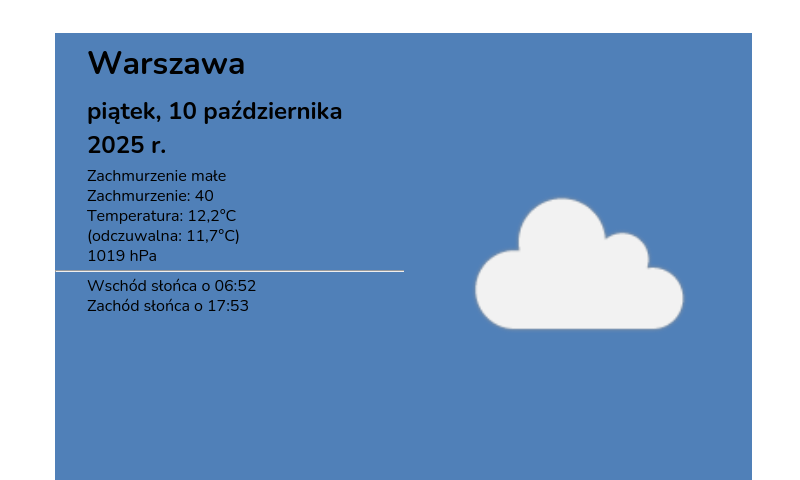
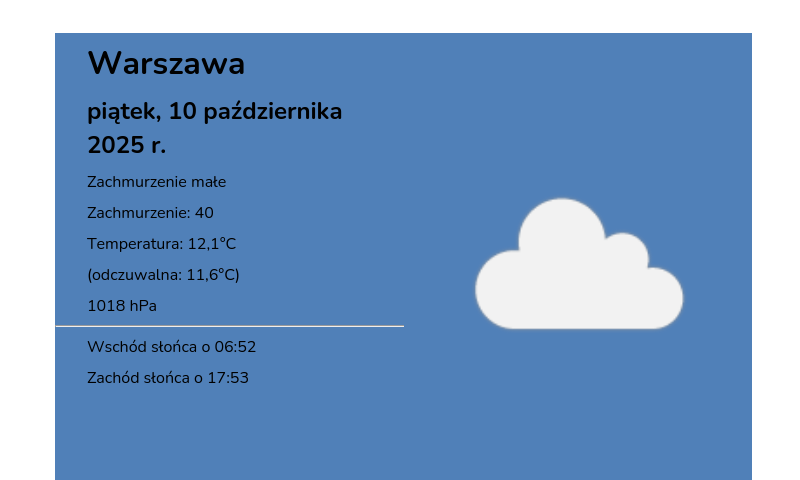
buttons przed optymalizacją

Changed region(s): [[0.0625, 0.3438, 0.5, 0.6875], [0.0938, 0.7812, 0.3125, 0.8125], [0.0938, 0.7188, 0.3125, 0.75]]

diff --git a/output/pogoda_potem.html b/output/pogoda_potem.html
@@ -11,20 +11,20 @@
         <div class="top-section">
             <h1>Warszawa</h1>
             <h3>piątek, 10 października 2025 r.</h3>
-            <h4>zachmurzenie małe, 12,0°C</h4>
+            <h4>zachmurzenie małe, 11,9°C</h4>
         </div>
         <div class="middle-section">
             
             <div class="kolumna-0">
                 <p>20:00</p>
                 <p><img class="ikona-pogody" src="../static/ikonyOpenWeather/03n.png" alt="ilustracja pogody"></p>
-                <p>12,0°C</p>
+                <p>11,9°C</p>
             </div>
             
             <div class="kolumna-1">
                 <p>23:00</p>
                 <p><img class="ikona-pogody" src="../static/ikonyOpenWeather/04n.png" alt="ilustracja pogody"></p>
-                <p>10,2°C</p>
+                <p>10,4°C</p>
             </div>
             
             <div class="kolumna-2">

diff --git a/output/pogoda_teraz.html b/output/pogoda_teraz.html
@@ -13,9 +13,9 @@
             <h2>piątek, 10 października 2025 r.</h2>
             <p>Zachmurzenie małe</p>
             <p>Zachmurzenie: 40</p>
-            <p>Temperatura: 12,2°C</p>
-            <p>(odczuwalna: 11,7°C)</p>
-            <p>1019 hPa</p>
+            <p>Temperatura: 12,1°C</p>
+            <p>(odczuwalna: 11,6°C)</p>
+            <p>1018 hPa</p>
             <hr>
             <p>Wschód słońca o 06:52</p>
             <p>Zachód słońca o 17:53</p>
